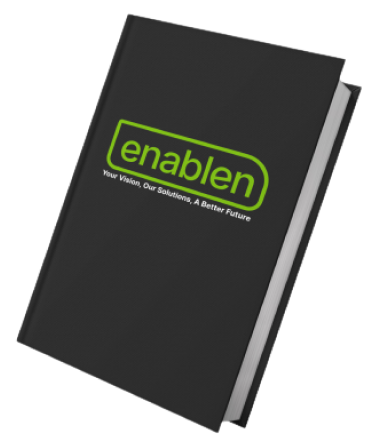
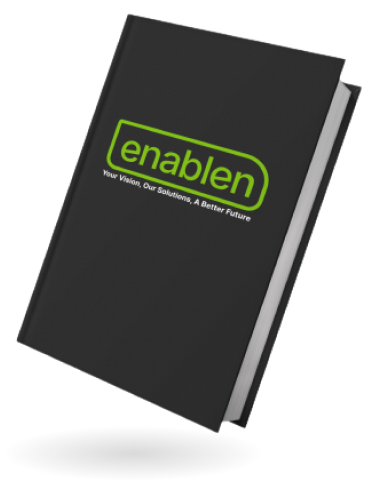
e

Changed region(s): [[0.0296, 0.0295, 0.9758, 1.0], [0.2661, 0.2364, 0.7392, 0.5023], [0.2957, 0.0886, 0.3253, 0.1477]]

diff --git a/css/index.css b/css/index.css
@@ -86,7 +86,8 @@
     max-width: 631px;
     text-align: center;
     color: #ffffffcc;
-    font-size: 150%;
+    font-size: 20px;
+    line-height: 28px;
 }
 
 
@@ -160,7 +161,8 @@
 
 @media (max-width:900px) {
     .home_section .content>.desc {
-        font-size: 110%;
+        font-size: 18px;
+        line-height: 24px;
     }
 }
 
@@ -451,12 +453,12 @@
     display: flex;
     flex-direction: row;
     align-items: center;
-    justify-content: space-between;
+    justify-content: center;
     padding: 0 20px;
     background: #fff;
     border: 2px solid var(--black-5);
     border-radius: 6px 30px 6px 6px;
-    gap: 80px;
+    gap: 100px;
 }
 
 
@@ -477,9 +479,7 @@
 }
 
 .solutions_section .tabs .tab_item.active {
-    font-size: 20px;
     font-weight: 500;
-    line-height: 28px;
     letter-spacing: 0em;
     color: var(--black);
     border-color: var(--green-color);
@@ -542,7 +542,7 @@
         width: 100%;
     }
 
-    
+
 
     .solutions_section .tabs {
         gap: 50px;
@@ -551,6 +551,8 @@
 
     .solutions_section .tabs .tab_item {
         padding: 16px 10px;
+        font-size: 16px;
+        line-height: 20px;
     }
 
     .solutions_section .tab_content_view {

diff --git a/css/components/ltri_section.css b/css/components/ltri_section.css
@@ -64,7 +64,7 @@
 
 .ltri_section .image_section img {
     width: 100%;
-    /* min-height: 450px; */
+    min-height: 400px;
     object-fit: cover;
     height: auto;
     max-height: 500px;
@@ -90,6 +90,10 @@
 
 .ltri_section.max-1000 .image_section {
     max-width: 500px;
+}
+.ltri_section.max-1000 .image_section img {
+    min-height: 0;
+    height: auto;
 }
 
 
@@ -164,12 +168,7 @@
 
 
 .ltri_section .image_section .image_container .freebie_img_drop_shadow {
-    background: radial-gradient(50% 50% at 50% 50%, #D9D9D9 0%, rgba(217, 217, 217, 0) 100%);
-    width: 260px;
-    height: 55px;
-    position: absolute;
-    top: 100%;
-    z-index: -1;
+    display: none;
 }
 
 
@@ -229,7 +228,7 @@
         width: 100%;
         object-fit: cover;
         object-position: center;
-        min-height: 0;
+        min-height: 400px;
         height: auto;
         max-height: 500px;
         border-radius: 10px 60px 10px 10px;

diff --git a/css/components/header.css b/css/components/header.css
@@ -163,8 +163,8 @@ header .inner .header_menu .menu_items .menu_item>a {
 
 
 @media (min-width: 768px) {
-    header .inner .header_menu .menu_items .menu_item:is(:hover, .active)>a>i {
-        transform: rotateZ(-180deg);
+    header .inner .header_menu .menu_items .menu_item:is(:hover)>a>i {
+        transform: rotateX(-180deg);
     }
 }
 
@@ -172,7 +172,7 @@ header .inner .header_menu .menu_items .menu_item>a {
 header .inner .header_menu .menu_items .menu_item>a>i {
     font-size: 12px;
     margin-left: 5px;
-    transition: all 0s ease;
+    transition: all .2s ease;
     display: inline-block;
 }
 
@@ -258,7 +258,7 @@ header.light .inner .menu_btn>i {
         display: none;
         flex-direction: column;
         position: absolute;
-        top: calc(100% + 20px);
+        top: 0;
         left: 50%;
         transform: translateX(-50%);
         background: #FFFFFF;

diff --git a/css/components/questions_section.css b/css/components/questions_section.css
@@ -8,6 +8,7 @@
     flex-direction: column;
     align-items: center;
     padding: 90px var(--max-hor-padding);
+    overflow: hidden;
 }
 
 
@@ -39,7 +40,6 @@
     border: 1px solid #E0E0E0;
     border-radius: 10px;
     max-width: 1030px;
-    height: min-content;
 }
 
 
@@ -61,7 +61,6 @@
 }
 
 .questions_section .questions .question_item.expanded .question_answer {
-    max-height: max-content;
     height: max-content;
     opacity: 1;
     padding-bottom: 10px;
@@ -85,7 +84,7 @@
     margin-left: 15px;
     font-weight: 900;
     transition: all .4s ease;
-    /* cursor: pointer; */
+    cursor: pointer;
 }
 
 

diff --git a/css/eLearning.css b/css/eLearning.css
@@ -4,6 +4,27 @@
     padding-bottom: 70px;
 }
 
+.home_section .content_section > .heading {
+    margin-bottom: 10px;
+}
+
+.home_section .content_section > .btn {
+    margin-top: 60px;
+}
+
+
+
+@media screen and (max-width:767px) {
+    .home_section {
+        padding-top: 130px;
+        padding-bottom: 50px;
+    }
+    .home_section .content_section > .btn {
+        margin-top: 30px;
+    }
+}
+
+
 /* sevice-range Section Style  */
 
 

diff --git a/css/components/projects_section.css b/css/components/projects_section.css
@@ -83,8 +83,12 @@
 
 
 @media (max-width:767px) {
+    .projects_section {
+        padding: 50px 0;
+    }
+
     .projects_section .project_item {
-        flex: 0 0 100%;
+        flex: 0 0 90%;
         max-width: 386px;
         padding: 15px;
     }

diff --git a/eLearning.php b/eLearning.php
@@ -1,7 +1,7 @@
 <?php $page_title = "E Learning Service";
 include("./includes/base_layout.php") ?>
-<link rel="stylesheet" href="./css/elearning.css" />
-<link rel="stylesheet" href="./css/components/dotted_lsit.css" />
+<link rel="stylesheet" href="/css/eLearning.css" />
+<link rel="stylesheet" href="/css/components/dotted_lsit.css" />
 
 
 
@@ -12,8 +12,7 @@ include("./includes/base_layout.php") ?>
 
     <section class="ltri_section home_section">
         <div class="content_section">
-            <h1>E-Learning Service</h1>
-            <div class="spacer-10"></div>
+            <h1 class="heading">E-Learning Service</h1>
             <p class="lg desc">Everything you need to get your online training up and running! We offer end-to-end eLearning services including courseware development, Moodle LMS customisation, and more.</p>
             <button type="button" class="btn outlined">Book A Call</button>
         </div>
